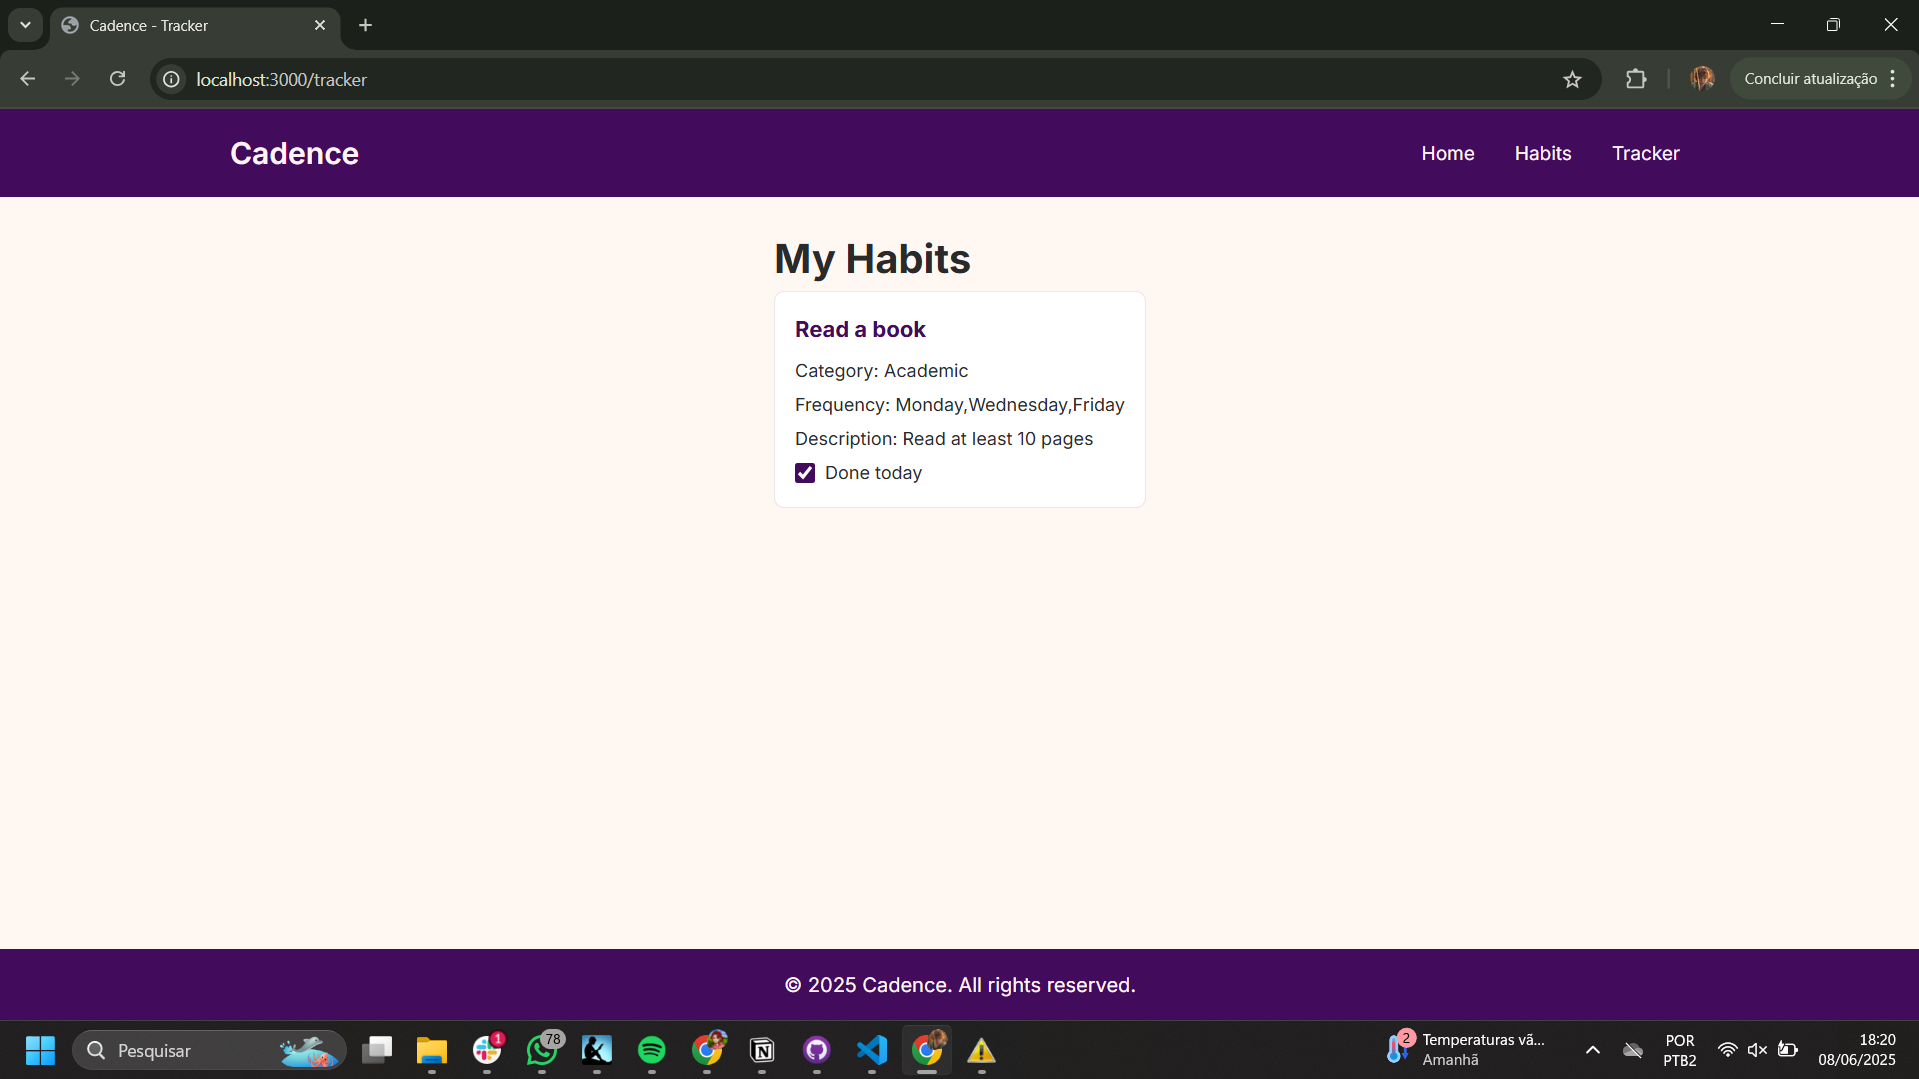
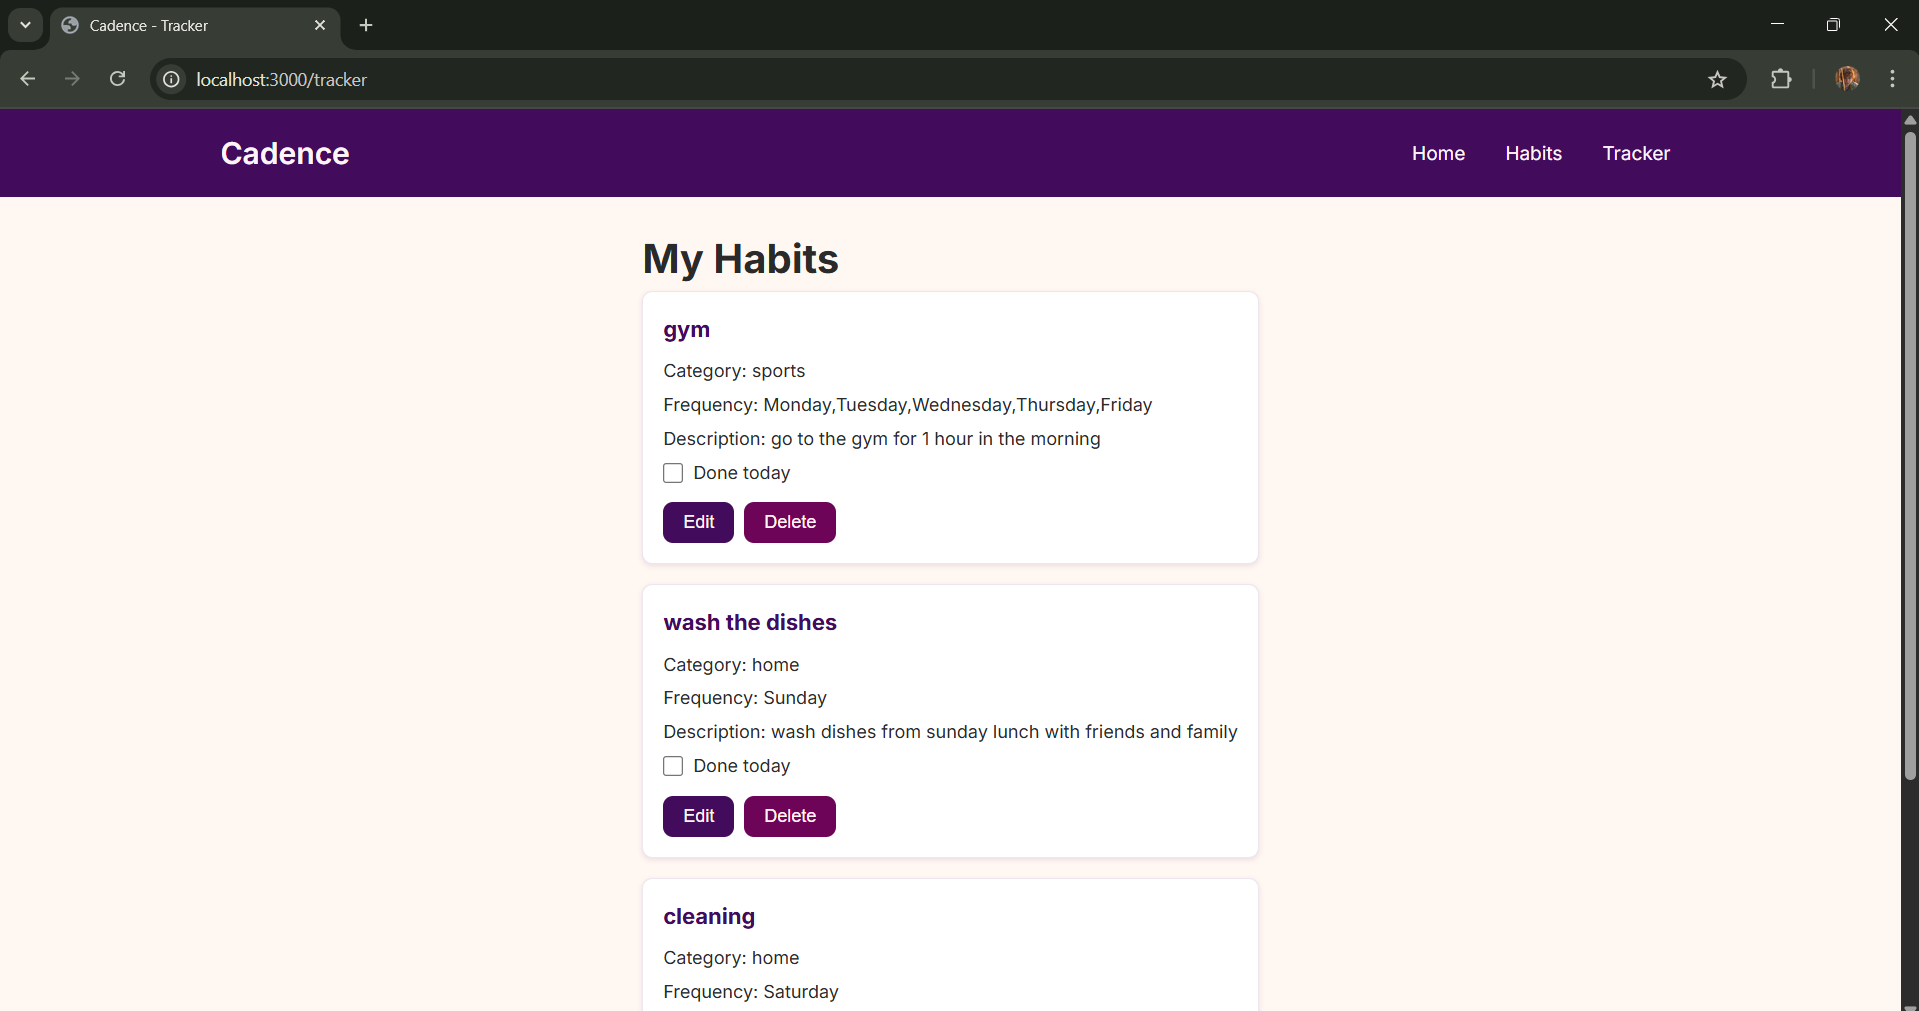
docs: update wad.md with demo video

diff --git a/documentos/wad.md b/documentos/wad.md
@@ -1,6 +1,6 @@
 # Web Application Document - Projeto Individual - Módulo 2 - Inteli
 
-## Cadence - Achieve your Goals
+## Cadence - Track your habits simply and stay consistent.
 
 #### Lavínia Pietra Carvalho Mendonça
 
@@ -106,7 +106,46 @@ O fluxo de dados segue o caminho
 
 ### 3.6. WebAPI e endpoints (Semana 05)
 
-*Utilize um link para outra página de documentação contendo a descrição completa de cada endpoint. Ou descreva aqui cada endpoint criado para seu sistema.*  
+A WebAPI do sistema Cadence foi desenvolvida utilizando o framework Express.js, seguindo os princípios da arquitetura REST. Abaixo estão descritos os principais endpoints implementados para as entidades do sistema:
+
+- **GET /habits**
+
+Retorna a lista de todos os hábitos cadastrados no sistema.
+
+
+- **POST /habits**
+
+Cria um novo hábito.
+
+
+- **DELETE /habits/:id**
+
+Remove um hábito com base em seu ID.
+
+
+- **GET /categories**
+
+Retorna todas as categorias disponíveis para classificação de hábitos.
+
+
+- **POST /categories**
+
+Cria uma nova categoria.
+
+
+- **GET /habit-tracker/:habitId**
+
+Retorna os registros de acompanhamento de um hábito específico (por ID).
+
+
+- **POST /habit-tracker**
+
+Marca um hábito como realizado em uma determinada data.
+
+
+A WebAPI do sistema Cadence fornece as rotas essenciais para o funcionamento do sistema, permitindo o gerenciamento de hábitos, categorias e acompanhamentos. Sua estrutura simples facilita a manutenção e futuras melhorias.
+
+
 
 ### 3.7 Interface e Navegação (Semana 07)
 
@@ -129,10 +168,10 @@ Imagem 5 -  Create Category (Habits)
 ![new-habit](../assets/create_habit.png)
 Imagem 6 -  Create Habit (Habits)
 
-A terceira página, tracker.ejs, é estruturada para exibir visualmente o progresso do usuário, com marcadores de conclusão por dia. A página mostra os hábitos e suas informações.
+A terceira página, tracker.ejs, é estruturada para exibir visualmente o progresso do usuário, com marcadores de conclusão por dia. A página mostra os hábitos e suas informações, permitindo a edição e exclusão de hábitos já existentes.
 
 ![tracker](../assets/tracker.png)
-Imagem 7 -  Create Category (Habits)
+Imagem 7 -  Habit Tracker (Tracker)
 
 A navegação entre as páginas é feita por meio de um menu fixo no topo da aplicação, garantindo fácil acesso a qualquer parte do sistema. Toda a comunicação entre frontend e backend é feita por meio de requisições fetch API no arquivo script.js, que acessa rotas da API hospedadas no backend Express. As rotas utilizadas incluem *GET /api/category* (para listar as categorias disponíveis), *POST /api/category* (para criar uma nova categoria), *GET /api/habit* (para listar os hábitos cadastrados) e *POST /api/habit* (para criar um novo hábito).
 
@@ -146,13 +185,19 @@ Nesta etapa, o foco foi garantir que as funcionalidades básicas da interface es
 
 ### 4.1 Demonstração do Sistema Web (Semana 8)
 
-*VIDEO: Insira o link do vídeo demonstrativo nesta seção*
-*Descreva e ilustre aqui o desenvolvimento do sistema web completo, explicando brevemente o que foi entregue em termos de código e sistema. Utilize prints de tela para ilustrar.*
+O vídeo demonstrativo apresenta o sistema web Cadence em funcionamento, destacando as principais funcionalidades desenvolvidas e a integração completa entre front-end, back-end e banco de dados. O sistema permite o cadastro, listagem e exclusão de hábitos, além do acompanhamento diário por meio de uma interface simples e funcional. A aplicação foi construída com base na arquitetura MVC, utilizando Node.js com Express no back-end, EJS no front-end, e PostgreSQL como banco de dados relacional. O vídeo também evidencia o funcionamento das rotas, o uso da fetch API para comunicação entre as camadas e os principais desafios enfrentados durante o desenvolvimento, podendo ser acessado por meio do link a seguir:
+
+https://drive.google.com/file/d/1kNnhCm2E1cb3AZG0bOfcascMWZ7-CZcV/view?usp=sharing
+
+
 
 ### 4.2 Conclusões e Trabalhos Futuros (Semana 8)
 
-*Indique pontos fortes e pontos a melhorar de maneira geral.*
-*Relacione também quaisquer outras ideias que você tenha para melhorias futuras.*
+O desenvolvimento do sistema Cadence permitiu consolidar conhecimentos práticos sobre a construção de aplicações web completas utilizando a arquitetura MVC. Um dos principais pontos fortes do projeto foi a estruturação clara entre camadas de models, views e controllers, além da implementação funcional das rotas e da comunicação eficiente entre o front-end e o back-end por meio da fetch API. A interface também se destacou pela simplicidade e facilidade de uso, cumprindo o objetivo de permitir o registro e acompanhamento de hábitos diários.
+
+Entre os pontos a melhorar, destaca-se a necessidade de um sistema de validação de dados mais robusto, tratamento de erros mais detalhado e melhorias na responsividade da interface para diferentes tamanhos de tela. Além disso, a organização dos arquivos pode ser refinada para facilitar a escalabilidade futura.
+
+Como trabalhos futuros, propõe-se a implementação de autenticação de usuários, permitindo que cada pessoa tenha sua própria lista de hábitos, bem como a criação de filtros por categoria, facilitando a visualização e o gerenciamento dos hábitos cadastrados. Outras possíveis melhorias incluem estatísticas de progresso e integração com dispositivos móveis para aumentar o engajamento do usuário.
 
 
 
@@ -160,5 +205,4 @@ Nesta etapa, o foco foi garantir que as funcionalidades básicas da interface es
 
 _Incluir as principais referências de seu projeto, para que o leitor possa consultar caso ele se interessar em aprofundar._<br>
 
----
 ---

diff --git a/readme.md b/readme.md
@@ -1,4 +1,4 @@
-# Cadance - Achieve your Goals
+# Cadance - Track your habits simply and stay consistent.
 
 Este projeto é um gerenciador de hábitos simples, projetado para ajudar pessoas a criar, acompanhar e manter hábitos ao longo de determinado período de tempo. Seu objetivo principal é facilitar a construção de rotinas alinhadas a metas pessoais do usuário. O projeto segue o padrão MVC (Model-View-Controller), utilizando PostgreSQL como banco de dados.
 
@@ -37,7 +37,7 @@ Configuração do Banco de Dados
 2. **Executar o script SQL de inicialização:**
     
 ```bash
-npm run init-db
+node server.js
 ```
     
 Cria as tabelas e estruturas necessárias no banco de dados, conforme definido nos modelos do projeto.
